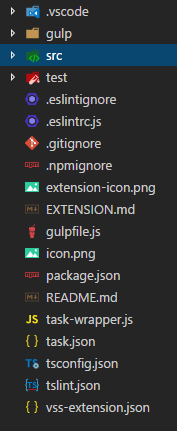
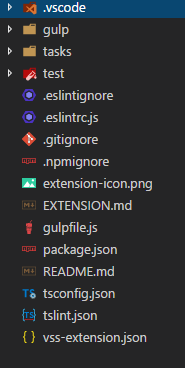
updates to VSTS task documentation as part if #96

Changed region(s): [[0.0, 0.0, 1.0, 0.9864]]

diff --git a/docs/VSTS-TASK.md b/docs/VSTS-TASK.md
@@ -1,42 +1,80 @@
 # VSTS Task
-The VSTS Task project type gives you everything you need to build your own custom Build/Release tasks for [Visual Studio Team Services][vsts-url]. The generator provides you with a new project containing a functional sample task, as well as everything you need to [package and upload][pack-pub-section] your tasks to your VSTS Accounts, and to [package and publish][pack-pub-section] your tasks to the [VSTS Marketplace][vsts-marketplace-url] if you want to share your work with others!
+The VSTS Task project type gives you everything you need to build your own custom Build/Release tasks for [Visual Studio Team Services][vsts-url]. The generator provides you with a new project containing a working sample task, as well as everything you need to [package and upload][pack-pub-section] your tasks to your VSTS Accounts, and to [package and publish][pack-pub-section] your task(s) to the [VSTS Marketplace][vsts-marketplace-url] as an extension if you want to share your work with others!
 
 If you are unfamiliar with VSTS, check out the [VSTS overview][about-vsts-section] at the bottom of this doc.
 
 ## Overview  
-As with other project types, the generator will also give you all of the [boilerplate content][boilerplate-doc], which we highly recommend reviewing as it provides the details on generator content
-that is standard across all project types like testing, linting, and more. You can also review the [high level usage overview][usage-overview-url] for more details about using the generator.
+As with all other project types, the generator will give you all of the [boilerplate content][boilerplate-doc], which we highly recommend reviewing as it provides the details on generator content
+that is standard across all project types like testing, linting, and more. You can also review the [high level usage overview][usage-overview-url] for more details about how to run/use the generator.
 
-## Directory Structure & Content
-The generator will create a new VSTS Task project with the directory structure and content outlined below (*note the below image includes the [VS Code settings][vscode-doc] provided by the generator*):  
+Content in this document:
+
+- [Directory structure][directory-structure-section]
+- [VSTS Extension files][vsts-extension-files-section]
+- [VSTS Task Content][task-content-section]
+- [Tests][unit-test-section]
+- [Debugging][debugging-section]
+
+## Directory Structure
+The generator will create a new VSTS Task project with the directory structure and content outlined below (*note the below image includes the optional [VS Code settings][vscode-doc] provided by the generator*):  
   
 ![VSTS Task Directory Structure][vsts-dir-structure-img]
 
 This includes:
 
 - (optionally) VS Code content.
-- Common [Boilerplate][boilerplate-doc] content with npm scripts, gulp tasks, and more.
-- [Standard VSTS files][standard-files-section].
-- [Source code][task-source-section] for the task implementation.
+- Common [Boilerplate][boilerplate-standard-section] content with npm scripts, gulp tasks, and more.
+- [Standard VSTS files][vsts-extension-files-section].
+- [Source code][task-content-section] for the task implementation.
 - [Unit tests][unit-test-section] for the task source code.
-- [Packaging and publishing][pack-pub-section] capabilities to package your task, upload it to your VSTS account, and publish it to the VSTS marketplace.
+- [Packaging and publishing][pack-pub-section] capabilities to package your task(s), upload it to your VSTS account, and publish it to the VSTS marketplace.
 
-It is also worth nothing that the initial structure provided by the generator is based on only having a single build task. If you end up deciding to bundle multiple tasks within the same project/extension, then you will need to make some minor modifications to the directory structure. See the below section on [multiple task support][multi-task-section] for additional details.
+The directory structure layout:
+- (optionally) `.vscode` directory with the [VS Code settings][vscode-doc]
+- `gulp` directory with configuration and gulp tasks. The [Boilerplate][boilerplate-building-section] documentation contains details about the common/shared gulp information, and the [below][scripts-section] has details on the additional gulp tasks for the VSTS task project type.
+- `tasks` directory which is the root directory for each individual VSTS task (each contained within a subdirectory under `tasks`).
+- `test` directory which contains all the various tests for your task code. 
+- several common files at the root of the project directory. Many of these are the common files as described in the [Boilerplate documentation][boilerplate-doc], as well as the [required VSTS extension files][vsts-extension-files-section]
 
-### Standard Files
-All of the standard files outlined in the [boilerplate doc][boilerplate-standard-section] are included, along with a few VSTS task/extension specific files:
+## VSTS Extension Standard Files
+There are 3 common files that are required to define an Extension for VSTS, and the generator creates them for you at the root of your new project:
 
-- *extension-icon.png* - This is the image/icon that will represent your extension on the VSTS Marketplace.
-- *EXTENSION.md* - Contains the information/page that will be displayed for your extension in the VSTS Marketplace.
+- `extension-icon.png` - This is the image/icon that will represent your extension on the VSTS Marketplace.
+- `EXTENSION.md` - Contains the information/page that will be displayed for your extension in the VSTS Marketplace.
+- `vss-extension.json` - Defines your extension configuration, which is required if you choose to package and publish your task(s) to the VSTS Marketplace for others to consume. More details on this file can be found in the [next section][vss-extension-section] below.
+
+### vss-extension.json
+This is the file that defines your extension once published to the [VSTS Marketplace][vsts-marketplace-url]. See the official [VSTS Extension manifest reference guide][vsts-extension-manifest-url] for more details about the content of the file and how it is used. We recommend that you update the following fields at a minimum in `vss-extension.json` in order to accurately define your own extension:
+
+- *name* - This will be defaulted to the value you gave to the generator for your app name.
+- *publisher* - This will be defaulted to the value you gave to the generator for your app author. It will need to map to the [VSTS publisher account][vsts-publisher-extension-url] you create on the VSTS Marketplace in order to be able to publish.
+- *tags* - Add whatever tags are applicable in order to accurately represent and categorize your extension
+- *gallery-flags* - This will be defaulted to a single flag: 'Preview'. If you choose to make your extension Paid then you will need to add the appropriate flags. When and if you decide to make your extension public/discoverable by others, then you will have to add the 'Public' flag. Note that you will have to get your [Publisher account verified][vsts-publicize-extension-url] in order to be able to publicise your extensions on the marketplace.
+
+## VSTS Task Content and Source
+The initial project structure created by the generator has a `tasks` directory at the project root. This is intended to be the root directory where you place the source code and content for each task. This is a very common practice and is the driver of all the tasks/scripts the generator places into your new projects. You can also add additional tasks (following the same pattern) if you'd like. See the [below section][multi-task-section] for more details on working with multiple tasks.
+
+Note that you can refactor the directory structure if you'd like, but be aware that will break much of the existing gulp configuration and npm scripts (so you'll have to modify all of those too). 
+
+![VSTS Sample Task][vsts-sample-task-dir-img]
+
+The generator provides you with a functional sample task (contained in `tasks/sampletask`) that provides examples of doing common activities. It also includes corresponding unit tests for the sample task. You can modify these source files to build your own task, or you can delete them entirely. 
+
+ This sample content shows various patterns and ways of performing activities within the VSTS build/release context. For example, how to retrieve input parameters, how to to interact with VSTS using the OAuth token, displaying information to users, failing or passing a task, using async/await, how to break up the functionality, and more.
+
+The initial sample task does two basic things:
+- retreive the input parameters defined in the definition, and do something with them.
+- tell the user how many Team Projects exist in the VSTS account.
+
+The sample task, just like any custom VSTS task you write, is made up of the [standard required][standard-task-files-section] VSTS task files as well as the [actual source code][task-source-files-section] that perform the tasks functions.
+
+### Standard Task Files
+Each individual task (build and release) in VSTS is defined in two core files, and the `sampletask` example has these predefined with the information you gave the generator.
+
 - *icon.png* - The icon for your task. This is what will be displayed for your task within VSTS.
-- *task-wrapper.js* - Helper file used to execute your task within a VSTS build or release.
-- *task.json* - Defines your task.
-- *vss-extension.json* - Defines your extension configuration, which is required if you choose to package and publish your task(s) to the VSTS Marketplace for others to consume.
+- *task.json* - Defines a task. More details about this file can be found [below][task-json-section].
 
-#### task-wrapper.js
-This is a nearly empty file that exists only for starting your task within the VSTS build/release flow. The `task.json` file has the Node execution target set to this file, resulting in the equivalent of a `node task-wrapper.js` which executes your task. It exists so that the [Task source file][task-source-file] can be structured in such a way to easily facilitate unit testing. 
-
-#### task.json
+### task.json
 This file defines your task for VSTS. See the official [VSTS Task Manifest documentation][vsts-task-manifest-url] for more details about the content of this file and how it is used. We recommend that you update the following fields at a minimum in `task.json` in order to accurately define your own task:
 
 - *name* - This will be defaulted to the value you gave to the generator for your app name.
@@ -45,54 +83,28 @@ This file defines your task for VSTS. See the official [VSTS Task Manifest docum
 - *instanceNameFormat* - This is the value that will be applied to your task once an instance has been added to a build/release definition. 
 - *inputs* - The sample task created adds two sample inputs that show how to take string/text and numerical input for your task.
 
-#### vss-extension.json
-This is the file that defines your extension once published to the [VSTS Marketplace][vsts-marketplace-url]. See the official [VSTS Extension manifest reference guide][vsts-extension-manifest-url] for more details about the content of the file and how it is used. We recommend that you update the following fields at a minimum in `vss-extension.json` in order to accurately define your own extension:
+### Sample Task Source
+The task source is broken into 3 different files within the task directory (`task/sampletask`) :
 
-- *name* - This will be defaulted to the value you gave to the generator for your app name.
-- *publisher* - This will be defaulted to the value you gave to the generator for your app author. It will need to map to the [VSTS publisher account][vsts-publisher-extension-url] you create on the VSTS Marketplace in order to be able to publish.
-- *tags* - Add whatever tags are applicable in order to accurately represent and categorize your extension
-- *gallery-flags* - This will be defaulted to a single flag: 'Preview'. If you choose to make your extension Paid then you will need to add the appropriate flags. When and if you decide to make your extension public/discoverable by others, then you will have to add the 'Public' flag. Note that you will have to get your [Publisher account verified][vsts-publicize-extension-url] in order to be able to publicise your extensions on the marketplace.
-
-### Task Source Code
-The generator provides you with a functional sample task that provides examples of doing common activities. It also includes corresponding unit tests for the sample task. You can modify these source files to build your own task, or you can delete them entirely 
-
- This sample content shows various patterns and ways of performing activities within the VSTS build/release context. For example, how to retrieve input parameters, how to to interact with VSTS using the OAuth token, displaying information to users, failing or passing a task, using async/await, how to break up the functionality, and more.
-
-The initial task does two basic things:
-- retreive the input parameters from the user and do something with them
-- tell the user how many Team Projects exist in the VSTS account.
-
-The task source is broken into 3 different files under the `src` directory:
-
-- *task.ts*
-- *task-logger.ts*
-- *helper.ts*
+- `task.ts`
+- `task-wrapper.js`
+- `helper.ts`
 
 #### task.ts
-The `task.ts` file is the main entry point for execution of your task. It includes an import of the [vsts-task-lib][] library, which is used to interface directly with the VSTS build/release context. It will do things like access the user input parameters, display status/debug/error/etc. messages to the user, and ultimately determine whether or not the task should be marked as successful or failed. It will typically leverage other functions/classes/etc. defined in other files to do most of the work of the task.
+The `task.ts` file is the main entry point for execution of your task. It includes an import of the [vsts-task-lib][vsts-task-lib-repo-url] library, which is used to interface directly with the VSTS build/release context. It will do things like access the user input parameters, display status/debug/error/etc. messages to the user, and ultimately determine whether or not the task should be marked as successful or failed. It will typically leverage other functions/classes/etc. defined in other files to do most of the work of the task.
 
 Note that `task.ts` exports a single function (`run`) and that the `task.ts` file does **_not_** contain any invocations of the `run` function (for example there is no `run();` anywhere). We do this so that it it is possible to actually run unit tests against the code within the `task.ts` file. It would be very difficult to do true unit tests if there were, because you could not easily control/stub/mock the external touchpoints. 
 
-Instead, there is a `task-wrapper.js` file (in the root of your project) that will run the task. 
+Instead, the `task-wrapper.js` file handles the actual execution of the task. 
+
+#### task-wrapper.js
+
+This is a nearly empty file that exists only for starting your task within the VSTS build/release flow. The `task.json` file has the Node execution target set to this file, resulting in the equivalent of a `node task-wrapper.js` which executes your task. It exists so that the [Task source file][task-source-file] can be structured in such a way to easily facilitate unit testing. We use this pattern for all of our tasks so that we can fully unit test all of our task code.
 
 #### helper.ts
 The Helper class defined in the `helper.ts` file is a simple example of a helper class that provides some functionality which is consumed by `task.ts`. The class exposes a single method that provides the ability to determine the number of Team Projects that exist on the specified VSTS account.
-
-#### task-logger.ts
-
-The 'main.ts' file is the main executable that is called by the VSTS task runner engine. This is where build information, variables, etc. can be obtained by interacting with the VSTS task system.
-Think of this main file as the entry point to begin the process of executing your task. However, the bulk of the work for your task should be performed by other classes/files. This is demonstrated by 
-the 'main.ts' file interacting with a Helper class defined in the 'helper.ts' file. 
   
-The 'main.ts' shows how you can get inputs (via build variables and user defined parameter values), use those inputs to perform various operations, and display info/output. The 'helper.ts' file 
-defines the Helper class which performs a couple of basic operations, while using ES6 promises: basic addition of two numbers and getting the number of Team Projects in the account by interacting 
-with the VSTS APIs.  
-  
-![VSTS Task Main.ts][main.ts-img]  
-  
-![VSTS Task Helper.ts][helper.ts-img]  
-
-### Unit Tests
+## Unit Tests
 The generator creates corresponding suites of tests for the aforementioned example classes/files, along with all the basic plumbing. 
 This plumbing allows you to run the tests from an npm script as well as directly through a gulp task. You can find more details about the tests, code coverage, and more in 
 [the common testing documentation][boilerplate-testing-section]. Note that running the tests will automatically transpile your code for you, so there is no need to run any tasks manually
@@ -103,9 +115,9 @@ You can kick off your unit tests via:
 npm test
 ```  
 
-### Debugging/Validating
+## Debugging & Validating
 Due to the nature of the VSTS tasks, there isn't really a "localhost" equivalent to validate the functionality of your task. The easiest way (that we know of) is to simply publish your task
-to a VSTS account where you have the necessary permissions. This is accomplished via the CLI Utility (tfx)
+to a VSTS account where you have the necessary permissions. 
 
 
 ### Packaging & Publishing
@@ -153,8 +165,9 @@ VSTS is a an end to end ALM platform that you can start using for *free*. You sh
 [vsts-url]: https://www.visualstudio.com/team-services/
 [boilerplate-doc]: BOILERPLATE.md
 [vsts-dir-structure-img]: images/vsts-task-dir-structure.png
+[vsts-sample-task-dir-img]: images/vsts-sample-task-dir-structure.png
 [boilerplate-standard-section]: BOILERPLATE.md#standard-files
-[boilerplate-building=section]: BOILERPLATE.md#gulp-&-building
+[boilerplate-building-section]: BOILERPLATE.md#gulp-&-building
 [main.ts-img]: vsts-main.png
 [helper.ts-img]: vsts-helper.png
 [boilerplate-testing-section]: BOILERPLATE.md#testing
@@ -165,13 +178,22 @@ VSTS is a an end to end ALM platform that you can start using for *free*. You sh
 [vsts-publisher-extension-url]: https://www.visualstudio.com/en-us/docs/integrate/extensions/publish/overview#create-a-publisher
 [vscode-doc]: VSCODE.md
 [pack-pub-section]: VSTS-TASK.md#packaging-&-publishing
-[about-vstfs-section]: VSTS-TASK.md#about-vsts
+[about-vsts-section]: VSTS-TASK.md#about-vsts
 [standard-files-section]: VSTS-TASK.md#standard-files
 [task-source-section]: VSTS-TASK.md#task-source-code
-[task-source-file]: VSTS-TASK.md#task.ts
+[task-source-file]: VSTS-TASK.md#taskts
 [unit-test-section]: VSTS-TASK.md#unit-tests
+[debugging-section]: VSTS-TASK.md#debugging
 [vsts-task-manifest-url]: https://www.visualstudio.com/en-us/docs/integrate/extensions/develop/build-task-schema
 [vsts-extension-manifest-url]: https://www.visualstudio.com/en-us/docs/integrate/extensions/develop/manifest 
 [vsts-build-task-tutorial-url]: https://www.visualstudio.com/en-us/docs/integrate/extensions/develop/add-build-task 
 [vsts-marketplace-publisher-url]: https://marketplace.visualstudio.com/manage/
 [multi-task-section]: VSTS-TASK.md#multiple-task
+[directory-structure-section]: VSTS-TASK.md#directory-structure
+[vsts-extension-files-section]: VSTS-TASK.md#vsts-extension-standard-files
+[task-content-section]: VSTS-TASK.md#vsts-task-content-and-source
+[standard-task-files-section]: VSTS-TASK.md#standard-task-files
+[task-source-files-section]: VSTS-TASK.md#sample-task-source
+[vss-extension-section]: VSTS-TASK.md#vss-extensionjson
+[task-json-section]: VSTS-TASK.md#taskjson
+[vsts-task-lib-repo-url]: https://github.com/Microsoft/vsts-task-lib
